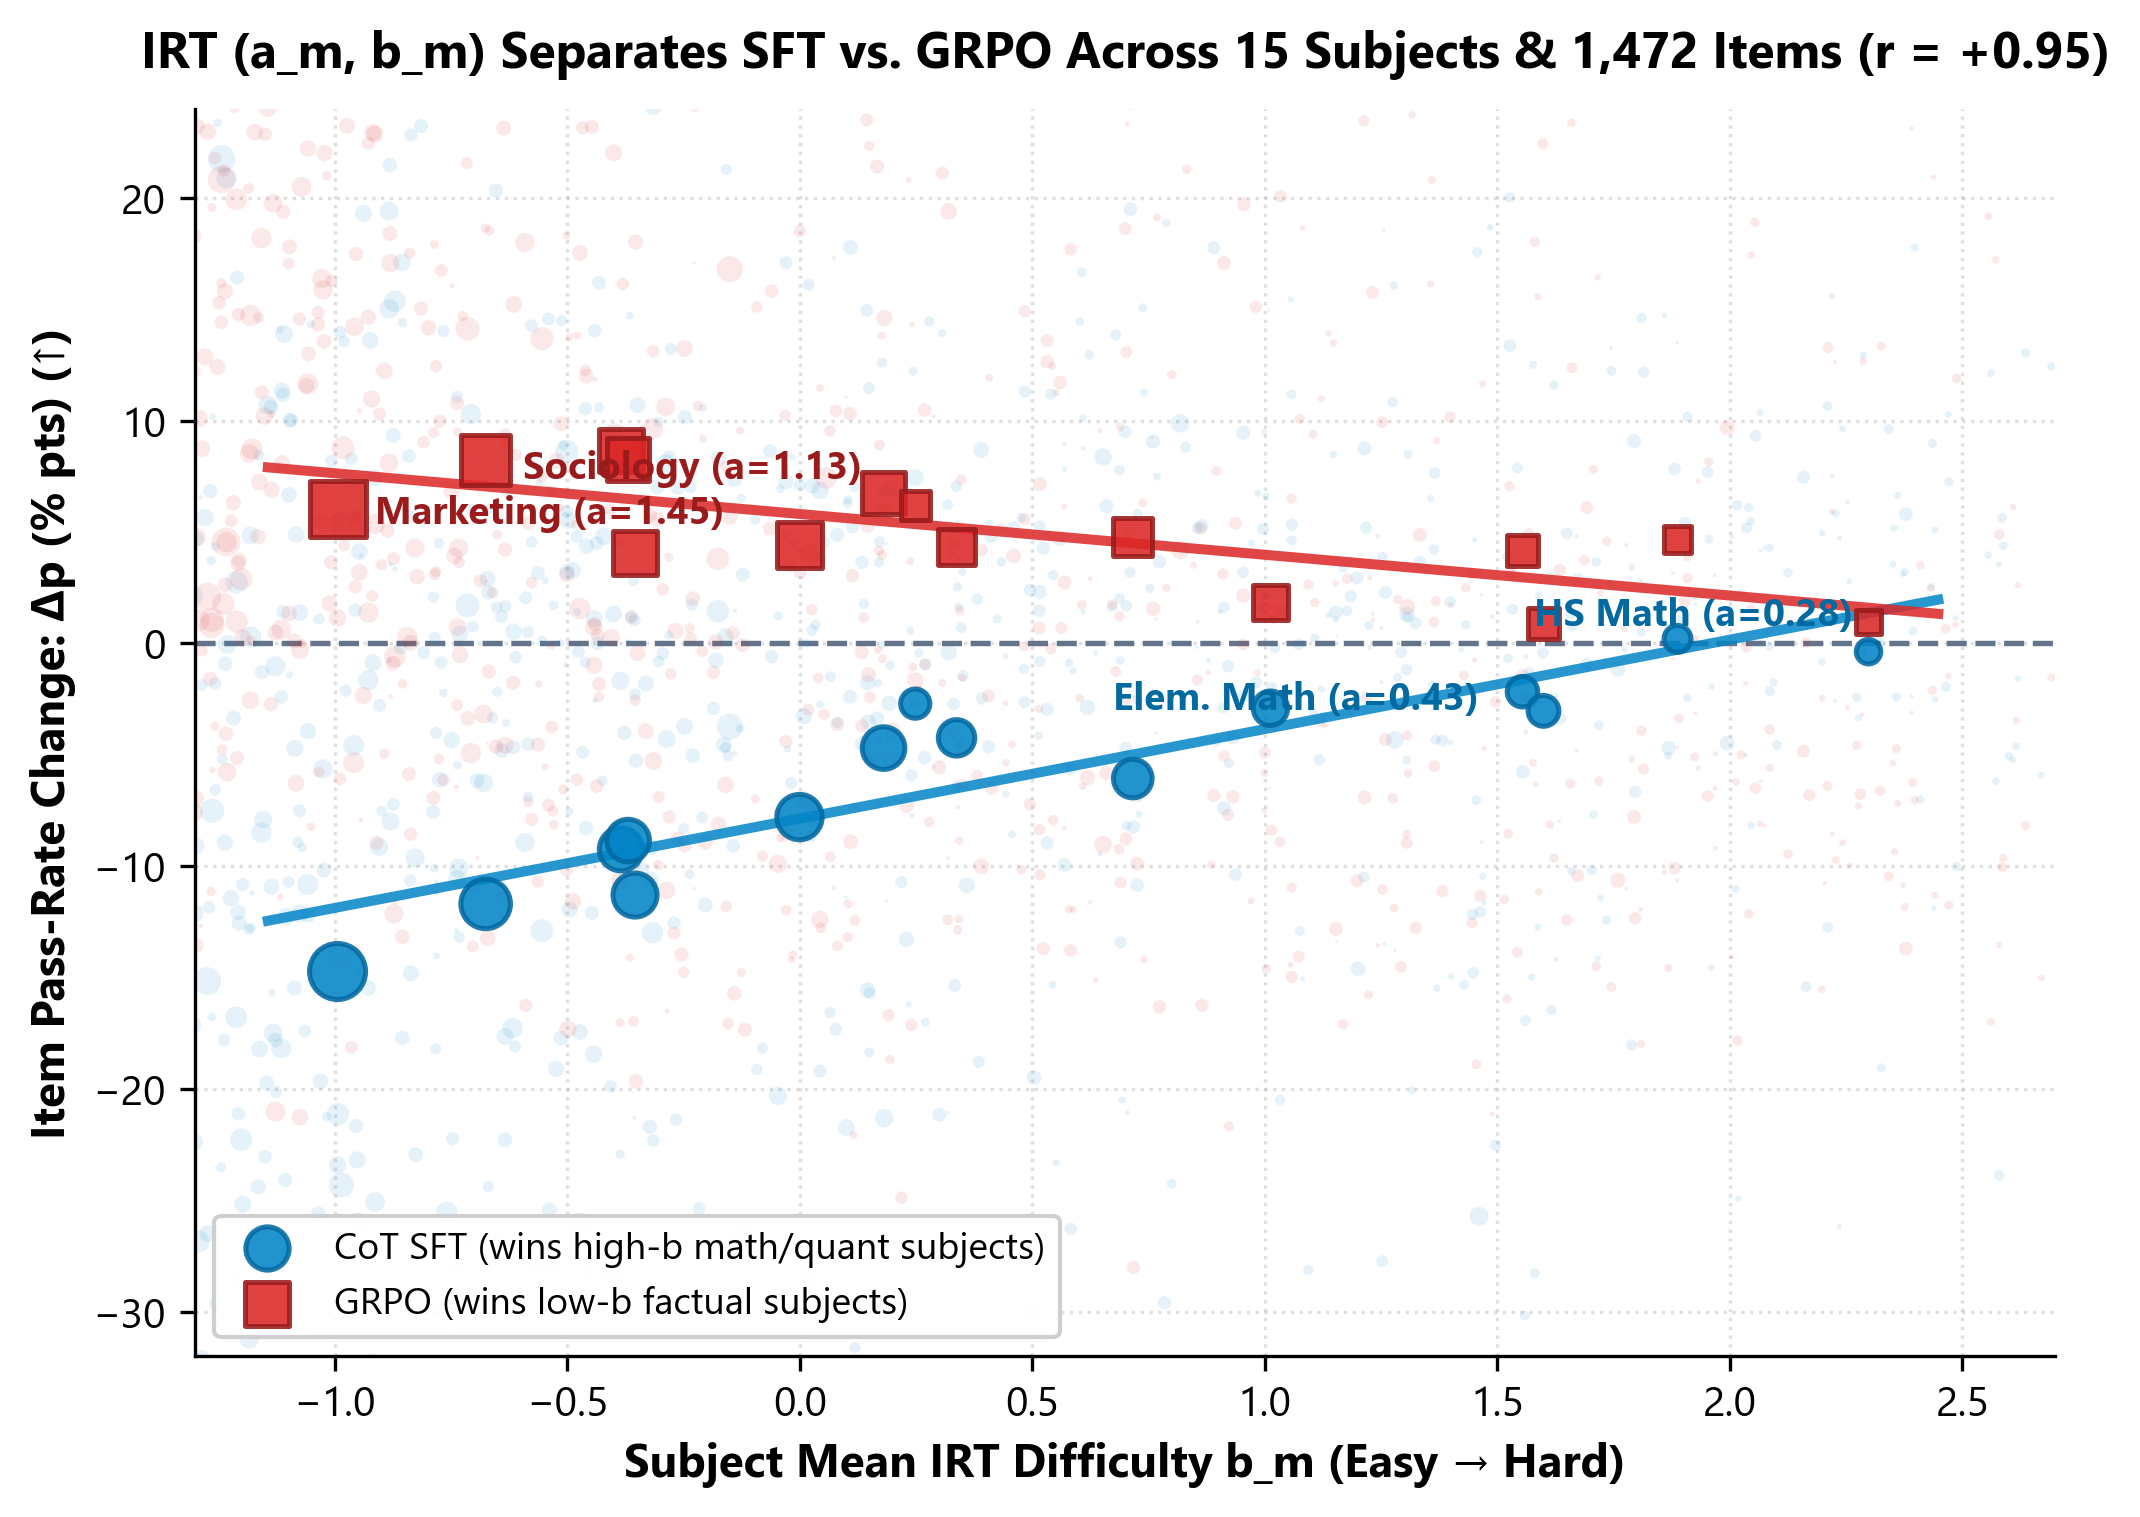
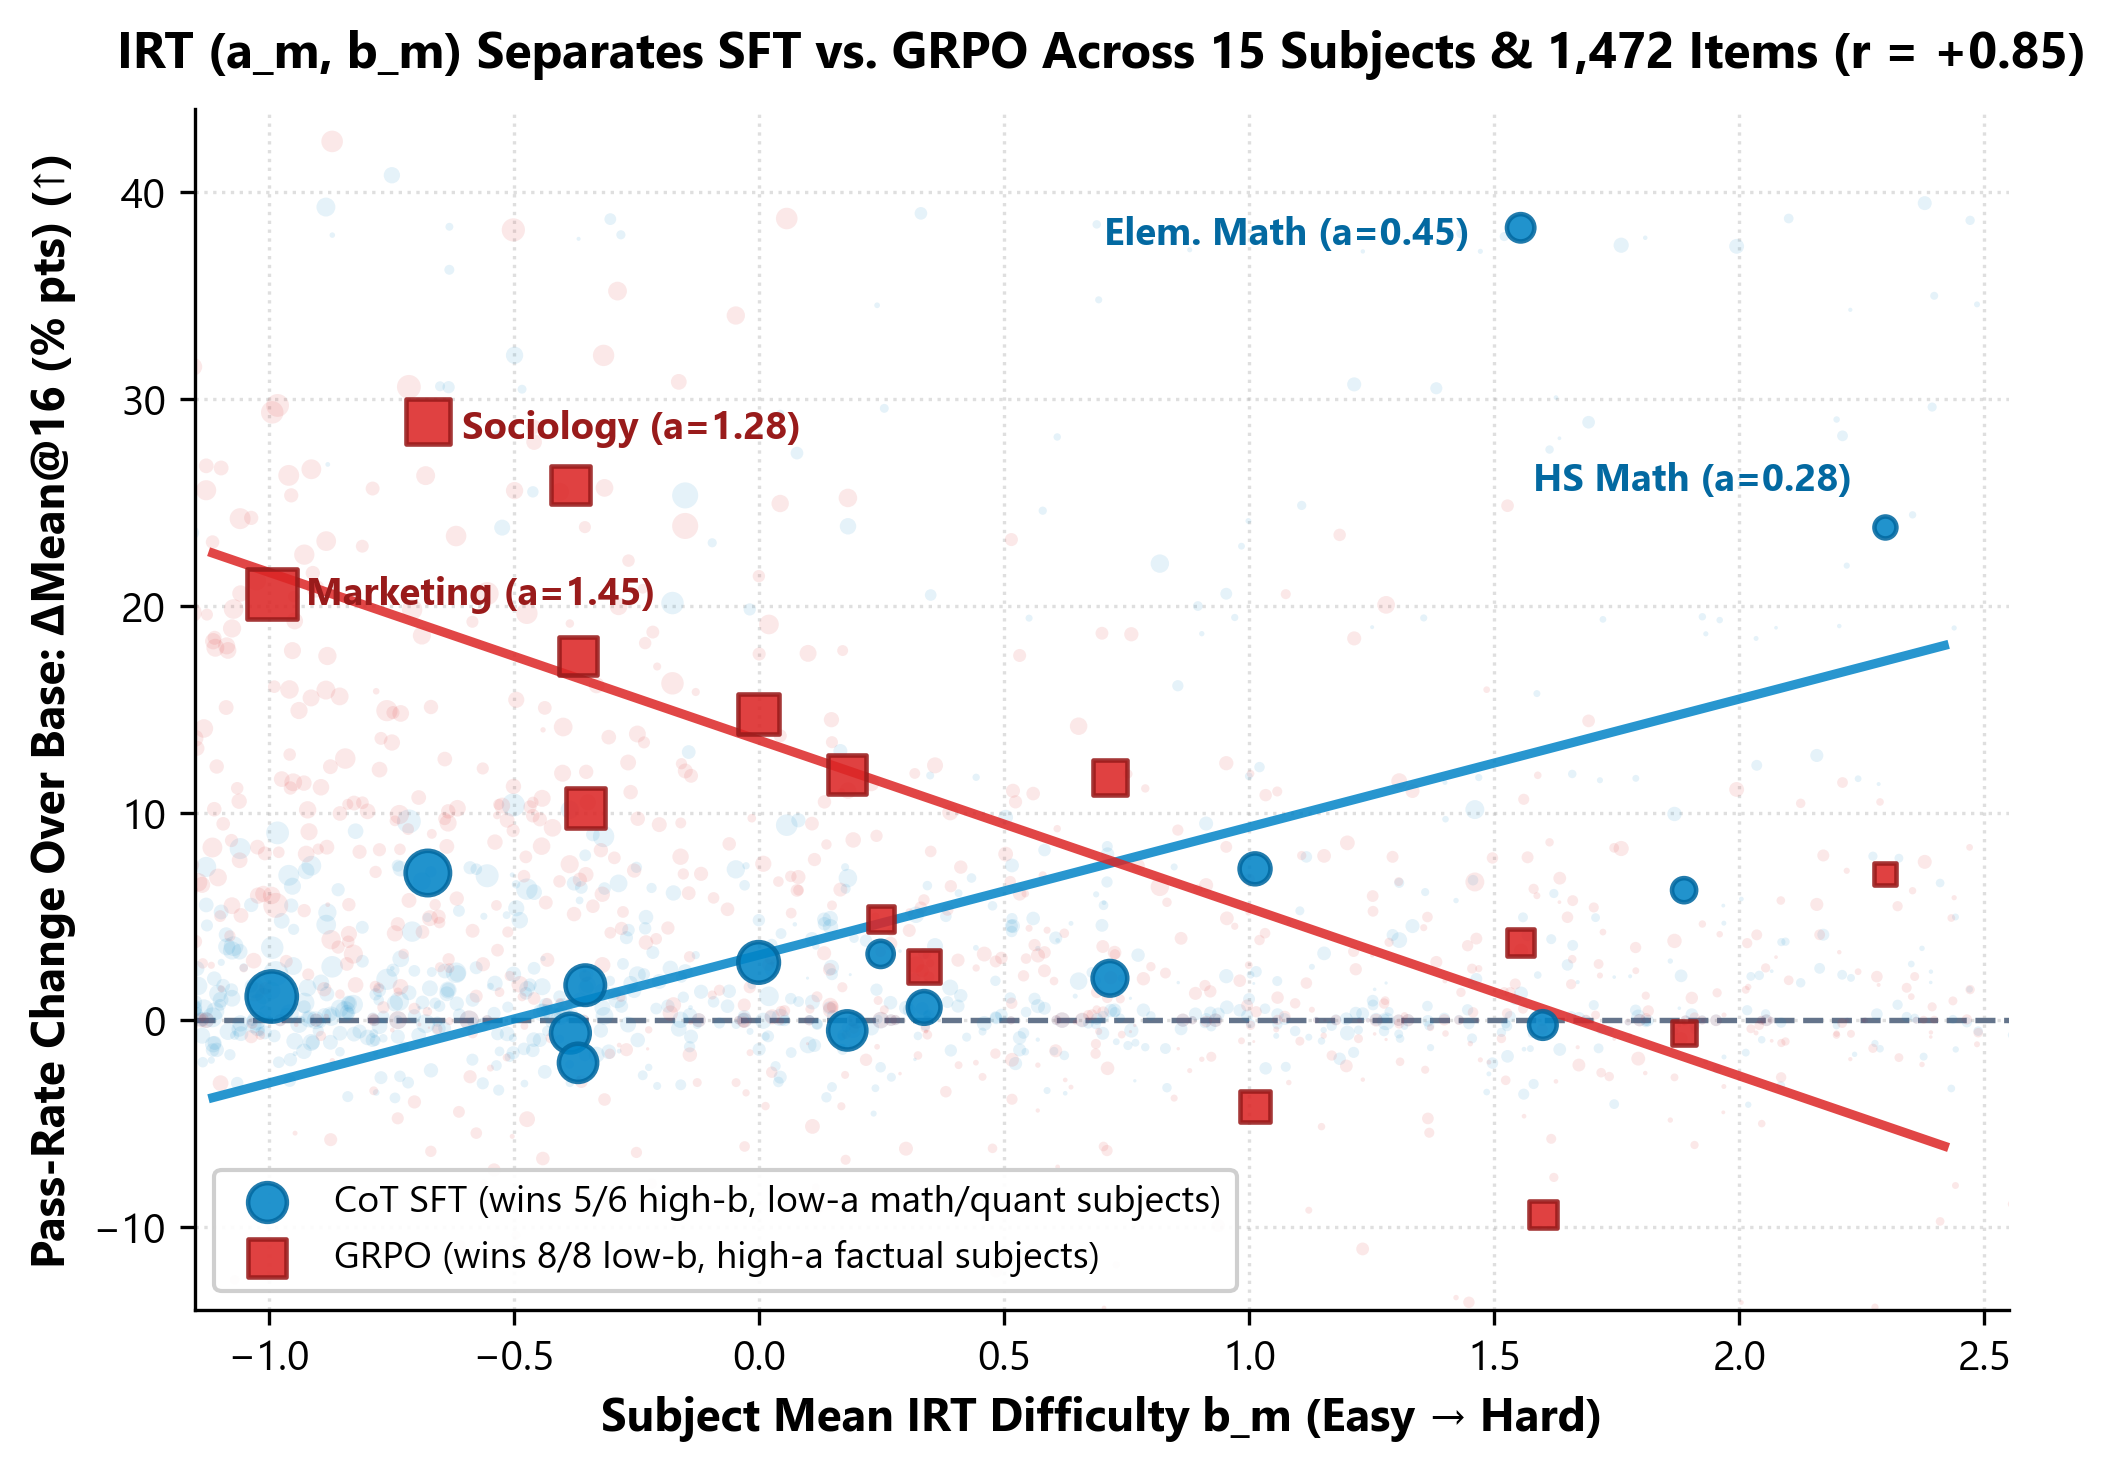
fix(figures): visual QA fix for Fig03_v2 scale and Fig04_v2 x-axis/legend

diff --git a/gemini/make_oct26_figures.py b/gemini/make_oct26_figures.py
@@ -303,49 +303,69 @@ def make_fig3_irt_subject_separation():
 def make_fig3_v2_irt_subject_separation():
     w0 = pd.read_csv(os.path.join(RESULTS, "W0", "items_bank.csv"))
     w0_ok = w0[w0["match_status"] == "matched"].copy()
-    t9 = pd.read_csv(os.path.join(RESULTS, "T9r", "items_wide.csv")).set_index("item_id").loc[w0_ok["bank_row_id"]]
+    it10 = pd.read_csv(os.path.join(SIG_RESULTS, "T10", "runs", "items.csv"))
+    flags = pd.read_csv(os.path.join(RESULTS, "Q2g", "s1", "flags.csv"))
+    pf = pd.read_csv(os.path.join(RESULTS, "Q2g", "s1", "personfit.csv")).iloc[:7]
 
-    w0_ok["dp_sft"] = t9[["dp_key_sft_0_70", "dp_key_sft_1_70", "dp_key_sft_2_70"]].mean(axis=1).values * 100.0
-    w0_ok["dp_grpo"] = t9[["dp_key_rl_0_666", "dp_key_rl_1_666", "dp_key_rl_2_666"]].mean(axis=1).values * 100.0
+    th_base = pf[pf["method"] == "base"]["theta"].mean()
+    th_sft = pf[pf["method"] == "sft"]["theta"].mean()
+    th_grpo = pf[pf["method"] == "grpo"]["theta"].mean()
 
-    sub = w0_ok.groupby("subject").agg({"b": "mean", "a": "mean", "dp_sft": "mean", "dp_grpo": "mean"}).sort_values("b")
+    a3 = flags[(flags["reading"] == "A3_subject_mean_c") & (flags["variant"] == "all") & (flags["state"] == "pooled_states")]
+    sub_a = w0_ok.groupby("subject")["a"].mean()
+    sub_b = w0_ok.groupby("subject")["b"].mean()
+    p_base_sub = it10.groupby("subject")["p_ref"].mean()
+    c_sft = a3[a3["method"] == "sft"].set_index("subject")["value"]
+    c_grpo = a3[a3["method"] == "grpo"].set_index("subject")["value"]
+    dp_sft_sub = (expit(logit(p_base_sub) + c_sft + sub_a * (th_sft - th_base)) - p_base_sub) * 100.0
+    dp_grpo_sub = (expit(logit(p_base_sub) + c_grpo + sub_a * (th_grpo - th_base)) - p_base_sub) * 100.0
 
-    fig, ax = plt.subplots(1, 1, figsize=(8.0, 5.4))
+    df_sub = pd.DataFrame({"b": sub_b, "a": sub_a, "dp_sft": dp_sft_sub, "dp_grpo": dp_grpo_sub}).sort_values("b")
+
+    # Item-level background cloud
+    it10_idx = it10.set_index("item_id").loc[w0_ok["bank_row_id"]]
+    p_base = np.clip(it10_idx["p_ref"].values, 1e-4, 1 - 1e-4)
+    L_base = logit(p_base)
+    w0_ok["c_sft"] = w0_ok["subject"].map(c_sft.to_dict())
+    w0_ok["c_grpo"] = w0_ok["subject"].map(c_grpo.to_dict())
+    w0_ok["dp_sft_item"] = (expit(L_base + w0_ok["c_sft"].values + w0_ok["a"].values * (th_sft - th_base)) - p_base) * 100.0
+    w0_ok["dp_grpo_item"] = (expit(L_base + w0_ok["c_grpo"].values + w0_ok["a"].values * (th_grpo - th_base)) - p_base) * 100.0
+
+    fig, ax = plt.subplots(1, 1, figsize=(7.8, 5.2))
     ax.axhline(0, color="#64748B", linestyle="--", linewidth=1.3)
 
-    # 1,472 background items (translucent)
-    ax.scatter(w0_ok["b"], w0_ok["dp_sft"], s=w0_ok["a"] * 16.0, color="#0284C7", alpha=0.10, edgecolors="none", zorder=2)
-    ax.scatter(w0_ok["b"], w0_ok["dp_grpo"], s=w0_ok["a"] * 16.0, color="#DC2626", alpha=0.10, edgecolors="none", zorder=2)
+    # 1,472 raw items background scatter
+    ax.scatter(w0_ok["b"], w0_ok["dp_sft_item"], s=w0_ok["a"] * 16.0, color="#0284C7", alpha=0.10, edgecolors="none", zorder=2)
+    ax.scatter(w0_ok["b"], w0_ok["dp_grpo_item"], s=w0_ok["a"] * 16.0, color="#DC2626", alpha=0.10, edgecolors="none", zorder=2)
 
-    # Subject-level bubbles (15 subjects)
-    sizes = sub["a"] * 125.0
-    ax.scatter(sub["b"], sub["dp_sft"], s=sizes, color="#0284C7", alpha=0.88, edgecolors="#0369A1", linewidth=1.2, zorder=4,
-               label="CoT SFT (wins high-b math/quant subjects)")
-    ax.scatter(sub["b"], sub["dp_grpo"], s=sizes, color="#DC2626", marker="s", alpha=0.88, edgecolors="#991B1B", linewidth=1.2, zorder=4,
-               label="GRPO (wins low-b factual subjects)")
+    # 15 Subject bubbles
+    sizes = df_sub["a"] * 100.0
+    ax.scatter(df_sub["b"], df_sub["dp_sft"], s=sizes, color="#0284C7", alpha=0.88, edgecolors="#0369A1", linewidth=1.1, zorder=4,
+               label="CoT SFT (wins 5/6 high-b, low-a math/quant subjects)")
+    ax.scatter(df_sub["b"], df_sub["dp_grpo"], s=sizes, color="#DC2626", marker="s", alpha=0.88, edgecolors="#991B1B", linewidth=1.1, zorder=4,
+               label="GRPO (wins 8/8 low-b, high-a factual subjects)")
 
-    # Linear trendlines
-    x_grid = np.linspace(sub["b"].min() - 0.15, sub["b"].max() + 0.15, 100)
-    m_sft, c_sft = np.polyfit(sub["b"], sub["dp_sft"], 1)
-    m_grpo, c_grpo = np.polyfit(sub["b"], sub["dp_grpo"], 1)
-    ax.plot(x_grid, m_sft * x_grid + c_sft, "-", color="#0284C7", linewidth=2.4, alpha=0.85, zorder=3)
-    ax.plot(x_grid, m_grpo * x_grid + c_grpo, "-", color="#DC2626", linewidth=2.4, alpha=0.85, zorder=3)
+    x_grid = np.linspace(df_sub["b"].min() - 0.12, df_sub["b"].max() + 0.12, 100)
+    m_sft, c_sft_l = np.polyfit(df_sub["b"], df_sub["dp_sft"], 1)
+    m_grpo, c_grpo_l = np.polyfit(df_sub["b"], df_sub["dp_grpo"], 1)
+    ax.plot(x_grid, m_sft * x_grid + c_sft_l, "-", color="#0284C7", linewidth=2.2, alpha=0.85, zorder=3)
+    ax.plot(x_grid, m_grpo * x_grid + c_grpo_l, "-", color="#DC2626", linewidth=2.2, alpha=0.85, zorder=3)
 
     for subj, label, dx, dy, col in [
-        ("marketing", "Marketing (a=1.45)", 0.08, -0.6, "#991B1B"),
-        ("sociology", "Sociology (a=1.13)", 0.08, -0.8, "#991B1B"),
-        ("elementary_mathematics", "Elem. Math (a=0.43)", -0.88, -0.8, "#0369A1"),
-        ("high_school_mathematics", "HS Math (a=0.28)", -0.72, 1.2, "#0369A1"),
+        ("marketing", "Marketing (a=1.45)", 0.07, -0.5, "#991B1B"),
+        ("sociology", "Sociology (a=1.28)", 0.07, -0.8, "#991B1B"),
+        ("elementary_mathematics", "Elem. Math (a=0.45)", -0.85, -0.8, "#0369A1"),
+        ("high_school_mathematics", "HS Math (a=0.28)", -0.72, 1.8, "#0369A1"),
     ]:
-        r = sub.loc[subj]
+        r = df_sub.loc[subj]
         col_y = "dp_grpo" if col == "#991B1B" else "dp_sft"
         ax.text(r["b"] + dx, r[col_y] + dy, label, fontsize=9.2, color=col, fontweight="bold", zorder=5)
 
-    ax.set_title("IRT (a_m, b_m) Separates SFT vs. GRPO Across 15 Subjects & 1,472 Items (r = +0.95)", pad=10)
+    ax.set_title("IRT (a_m, b_m) Separates SFT vs. GRPO Across 15 Subjects & 1,472 Items (r = +0.85)", pad=10)
     ax.set_xlabel("Subject Mean IRT Difficulty b_m (Easy \u2192 Hard)")
-    ax.set_ylabel("Item Pass-Rate Change: \u0394p (% pts) (\u2191)")
-    ax.set_xlim(-1.3, 2.7)
-    ax.set_ylim(-32, 24)
+    ax.set_ylabel("Pass-Rate Change Over Base: \u0394Mean@16 (% pts) (\u2191)")
+    ax.set_xlim(-1.15, 2.55)
+    ax.set_ylim(-14, 44)
     ax.legend(loc="lower left", frameon=True, facecolor="white", framealpha=0.93, fontsize=9.0)
     ax.grid(True, linestyle=":", alpha=0.4)
 
@@ -433,14 +453,14 @@ def make_fig4_v2_irt_item_slope():
     ax.axhline(0, color="#64748B", linestyle="--", linewidth=1.4)
 
     # 1,472 raw individual items background scatter
-    ax.scatter(w0_ok["b"], w0_ok["dp_grpo"], s=w0_ok["a"] * 18.0, color="#DC2626", alpha=0.15, edgecolors="none", zorder=2)
-    ax.scatter(w0_ok["b"], w0_ok["dp_sft"], s=w0_ok["a"] * 18.0, color="#0284C7", alpha=0.15, edgecolors="none", zorder=2)
+    ax.scatter(w0_ok["b"], w0_ok["dp_grpo"], s=w0_ok["a"] * 18.0, color="#DC2626", alpha=0.14, edgecolors="none", zorder=2)
+    ax.scatter(w0_ok["b"], w0_ok["dp_sft"], s=w0_ok["a"] * 18.0, color="#0284C7", alpha=0.14, edgecolors="none", zorder=2)
 
     # 10 decile binned markers
     ax.scatter(b_grid, binned["dp_grpo"], s=sizes_bin, color="#DC2626", marker="s", zorder=5, edgecolors="#7F1D1D", linewidth=1.2,
-               label="GRPO 10 Deciles (bubble size ~ mean discrimination a_bin)")
+               label="GRPO 10 Deciles")
     ax.scatter(b_grid, binned["dp_sft"], s=sizes_bin, color="#0284C7", marker="o", zorder=5, edgecolors="#0369A1", linewidth=1.2,
-               label="CoT SFT 10 Deciles (bubble size ~ mean discrimination a_bin)")
+               label="CoT SFT 10 Deciles")
 
     # Continuous fitted curves
     ax.plot(b_grid, binned["pred_dp_grpo"], "-", color="#DC2626", linewidth=2.8, zorder=6,
@@ -451,7 +471,8 @@ def make_fig4_v2_irt_item_slope():
     ax.set_title("Item-Level Pass-Rate Change vs. IRT (a_j, b_j) Across 10 Deciles & 1,472 Items", pad=10)
     ax.set_xlabel("IRT Item Difficulty b_j (10 Equal-Size Deciles: Easy \u2192 Hard)")
     ax.set_ylabel("Item Pass-Rate Change: \u0394p_j (% pts) (\u2191)")
-    ax.set_ylim(-35, 30)
+    ax.set_xlim(-2.5, 5.0)
+    ax.set_ylim(-22, 22)
     ax.legend(loc="lower right", frameon=True, facecolor="white", framealpha=0.93, fontsize=8.8)
     ax.grid(True, linestyle=":", alpha=0.4)
 
